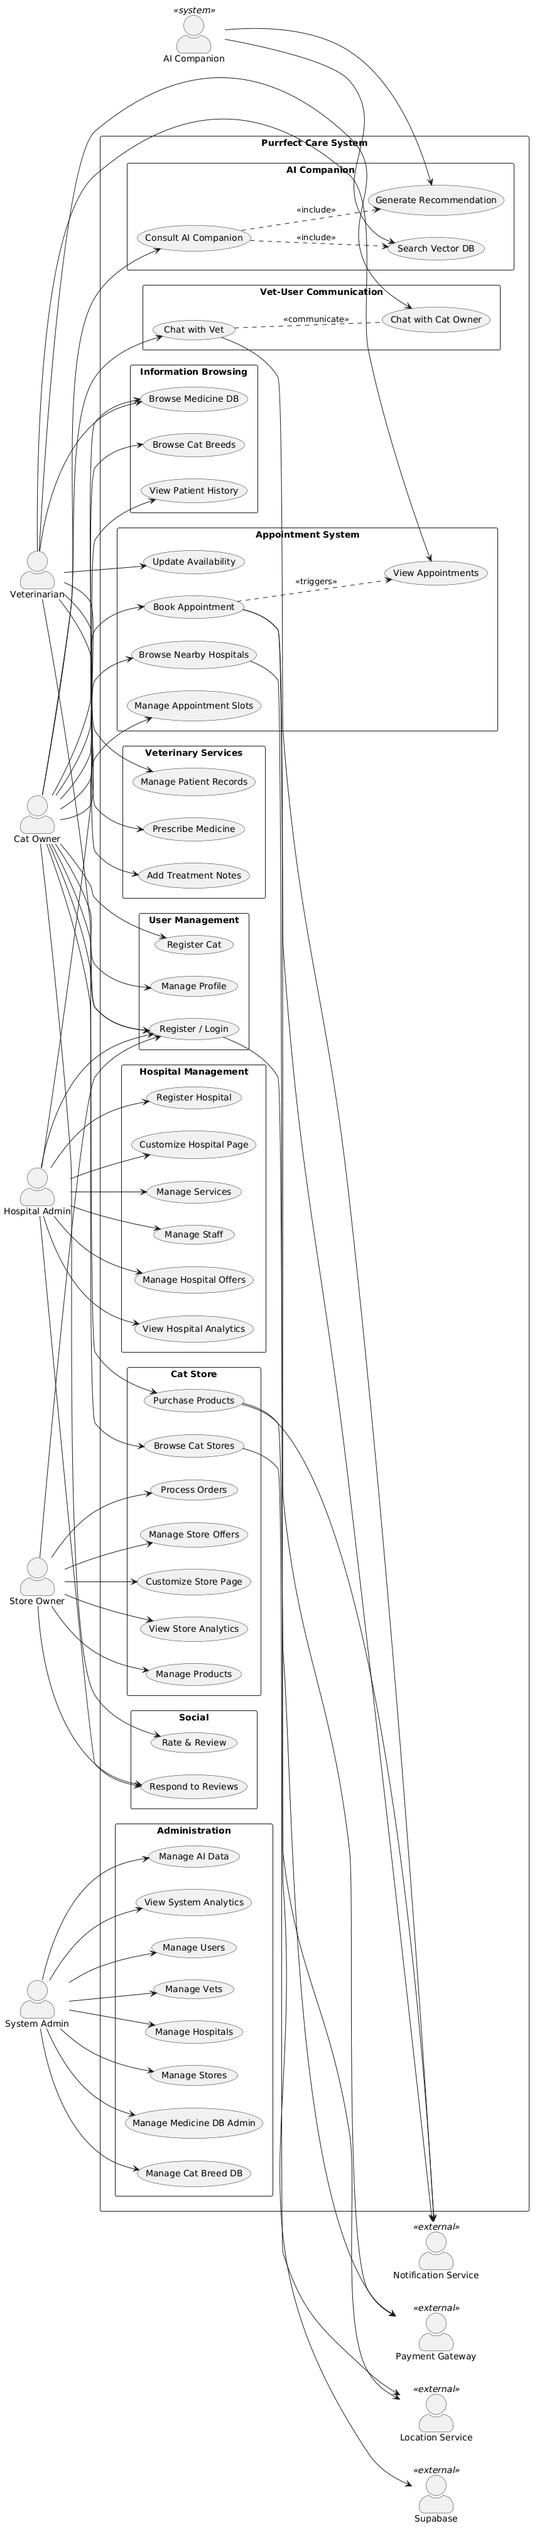
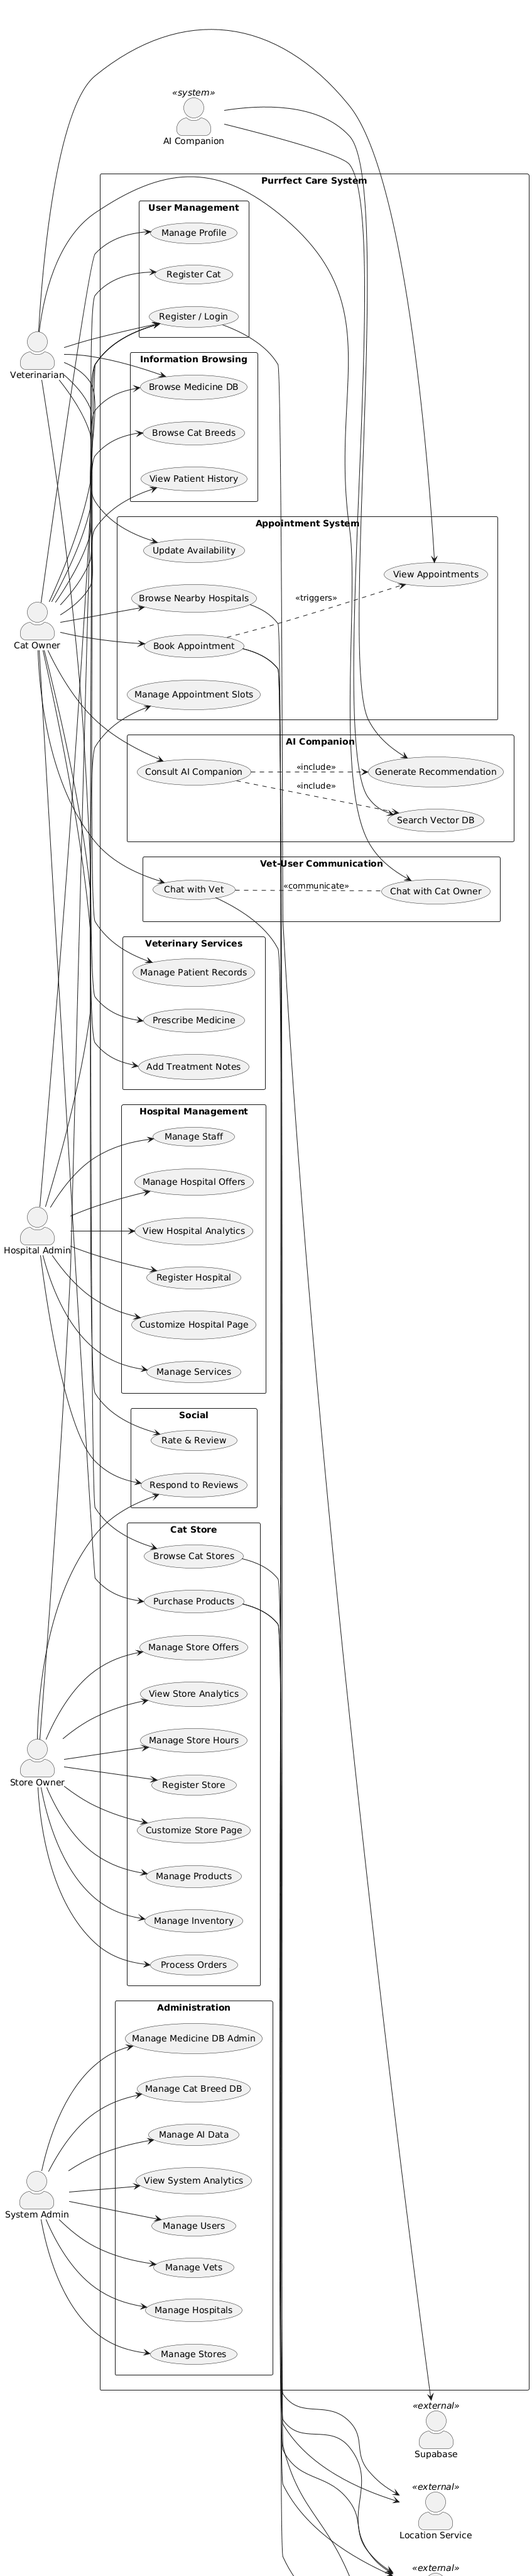
Completed all the swimlane diagrams Fixed the code for swimlane-10

diff --git a/docs/design/02-swimlane-diagrams.md b/docs/design/02-swimlane-diagrams.md
@@ -1054,55 +1054,49 @@ stop
 |Cat Owner|
 start
 :Completes appointment/order;
-:Receives prompt: 
-"Rate your experience";
+:Receives prompt\n"Rate your experience";
 :Opens review form;
 :Selects star rating (1-5);
 :Writes review comment;
 :Submits review;
 
-|System (Backend)|
+|System Backend|
 :Validate review content;
-:Check user had actual 
-appointment/order with target;
+:Check user had actual\nappointment/order with target;
 
-|Supabase|
-:INSERT into reviews
-(user_id, target_id, 
-rating, comment);
-:Recalculate average rating:
-UPDATE hospitals/stores/vets 
-SET rating = AVG(reviews.rating),
-total_reviews = COUNT(*);
-
-|Notification Service|
-:Notify Hospital Admin / 
-Store Owner / Vet:
-"New review received (★★★★☆)";
-
-|Hospital Admin / Store Owner|
-:Receives review notification;
-:Views review in dashboard;
-
-if (Wants to respond?) then (yes)
-    :Writes response;
-    :Submits response;
-    
+if (Valid interaction?) then (yes)
     |Supabase|
-    :INSERT into review_responses
-    (review_id, responder_id, 
-    response_text);
-    
+    :INSERT into reviews\n(user_id, target_id, rating, comment);
+    :Recalculate average rating\nUPDATE hospitals/stores/vets\nSET rating = AVG(reviews.rating),\ntotal_reviews = COUNT(*);
+
     |Notification Service|
-    :Notify Cat Owner:
-    "Business responded 
-    to your review";
-    
-    |Cat Owner|
-    :Views response;
-else (no)
+    :Notify Hospital Admin /\nStore Owner / Vet\n"New review received";
+
     |Hospital Admin / Store Owner|
-    :Acknowledges review;
+    :Receives review notification;
+    :Views review in dashboard;
+
+    if (Wants to respond?) then (yes)
+        :Writes response;
+        :Submits response;
+
+        |Supabase|
+        :INSERT into review_responses\n(review_id, responder_id, response_text);
+
+        |Notification Service|
+        :Notify Cat Owner\n"Business responded to your review";
+
+        |Cat Owner|
+        :Views response;
+    else (no)
+        |Hospital Admin / Store Owner|
+        :Acknowledges review;
+    endif
+else (no)
+    |System Backend|
+    :Return error\n"No completed interaction found";
+    |Cat Owner|
+    :Shown error message;
 endif
 stop
 @enduml
